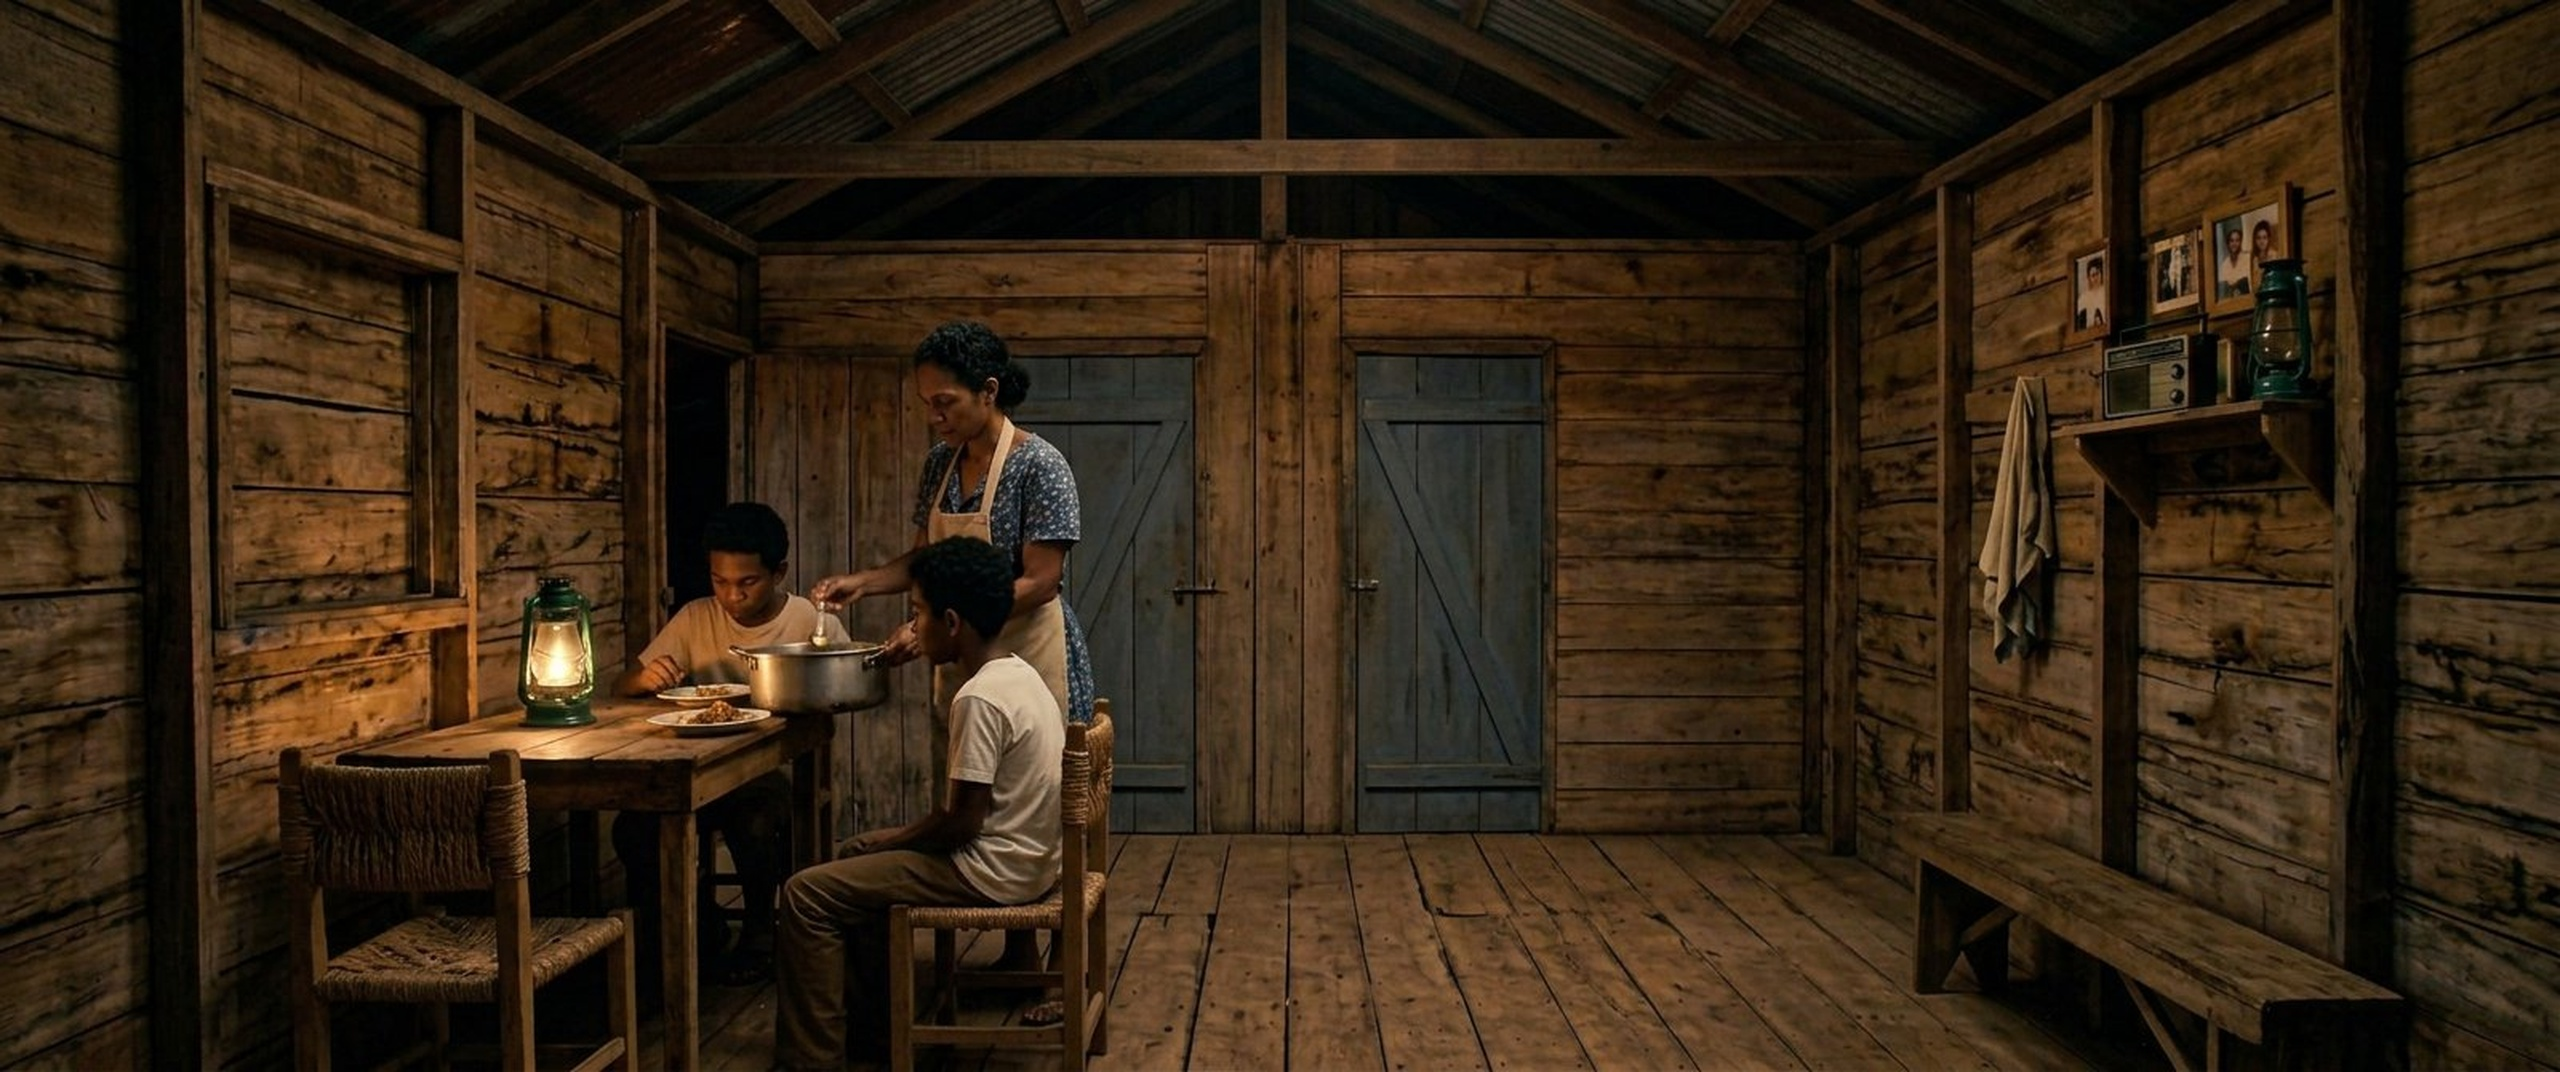
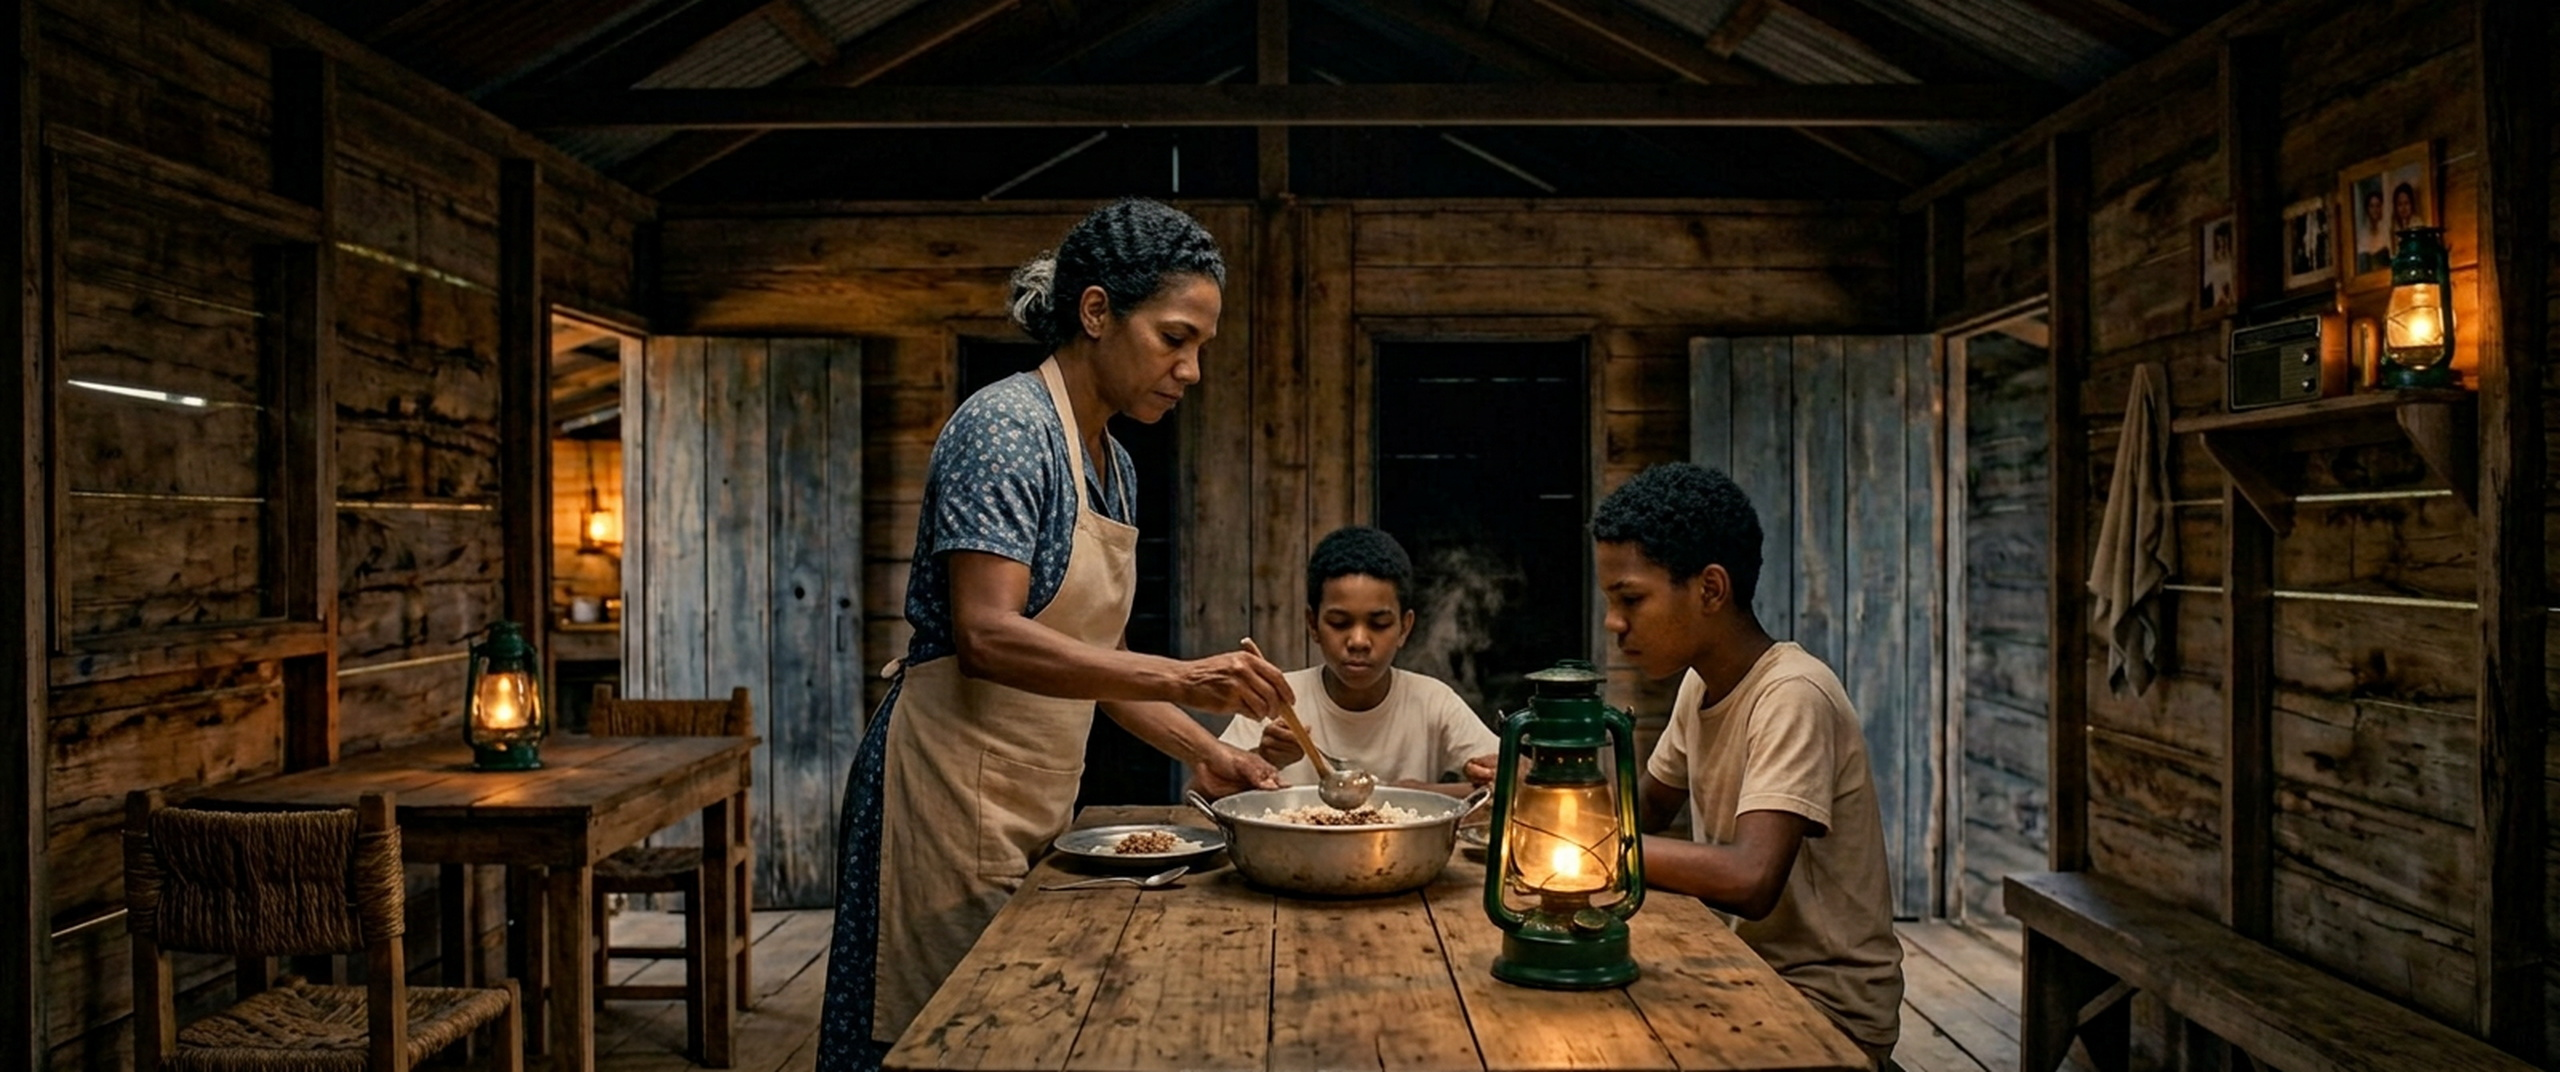
[ARENA] S06_P01 REPARADA (carril WILSON por orden directa del Jefe): pared del fondo clonada exacto de P02 (vano cocina / puerta azul-gris / vano hijos / puerta azul-gris), set aprobado intacto (farol verde, estante radio+fotos+toalla, 2 guano, ponchera, platos), vestuario ley S06, nadie a camara, 2

diff --git a/los_caminos_de_la_vida/02_DIRECCION/REGISTRO_DE_AGENTES.md b/los_caminos_de_la_vida/02_DIRECCION/REGISTRO_DE_AGENTES.md
@@ -21,5 +21,4 @@ Formato: `[FECHA] ID-AGENTE | SECUENCIA/ARCHIVOS | qué hizo | pendiente`
 | 2026-09-12 | WILSON | SECUENCIA_09 PRESENTE/TIEMPO B: 6/6 planos (P01-P06) + SECUENCIA_09_PLANOS.md | Publicado, esperando veredicto del Director |
 | 2026-09-12 | `WILSON` | **SECUENCIA_09 PRESENTE (Tiempo B) — lote 1 de mi orden del estado 08:** `S09_P01_CASA_PRESENTE_GENERAL_24MM.jpg` (general de la MISMA casa envejecida 35 años, clon del master 01 de fachada: galería con postes y baranda, puerta azul central, ventana izquierda con postigos azules, batea de zinc al pie del muro derecho, mango + ropa tendida, gallinas, cerca de palos) · `S09_P03_MADRE_BALCON_85MM.jpg` (madre 86 años charter Tiempo B: blusa azul flores + delantal beige + falda azul marino, moño bajo blanco, manos sobre las rodillas, mirada al camino, NUNCA a cámara, jarra + jarro en la banqueta a su lado) · `S09_P02_HIJO_ARREGLANDO_BALCON_35MM.jpg` **con defecto auto-denunciado** (batea duplicada y marca de la ceja ilegible por el giro de cabeza) + `SECUENCIA_09_PLANOS.md`. Adulto con la marca en la CEJA IZQUIERDA del personaje según el DECRETO (el texto viejo de `02_ORDENES` decía derecha; ya lo anoté). 2560×1072, sin electricidad, sin objetos modernos. | **Auto-denuncia:** P02 queda marcado para REVISAR/REHACER por mí, no lo mando a FINAL · **P04 macro manos (100), P05 hijo trayendo comida (50), P06 plano de dos (50) QUEDAN PENDIENTES**: el turno de producción se cortó por el límite de 10 imágenes del entorno, no por decisión creativa. Los genero y publico en mi siguiente turno. Le pedí al Director permiso para regenerar P02 en el mismo lote. Nota de ética de carril: retiré mi P01 de S06 y mi master del dormitorio porque él ya aprobó el master 10 y reasignó S06_P01 a JUANA — no publiqué duplicados. |
 | 2026-09-12 | `WILSON` (sesión A) | **Cierro mi hueco y abro mi carril de S08.** 1) `S09_P02_HIJO_ARREGLANDO_BALCON_35MM_V2.jpg` — reemplazo de mi P02 auto-denunciado: **UNA sola batea al muro derecho** (antes estaba duplicada) y cabeza girada para que la notch de la ceja IZQUIERDA del personaje lea del lado correcto; manos 5 dedos sobre la garlopa. No borro la V1, quedan las dos para veredicto. 2) **SECUENCIA_08 LA PARTIDA — P01 y P05, mi lane de `06_EQUIPO`**: `S08_P01_CAMINO_DESPEDIDA_GENERAL_24MM.jpg` (despedida de los tres sobre el MISMO camino rojo de S04_P01: rodaduras, casa + mango a la izquierda, escuelita con bandera a la derecha, sierra brumosa; madre blusa lila + chal, hermano con sombrero en las manos SIN marca, adolescente camisa azul + pantalón marrón con la lonchera de lata heredada de S04/S05 y el fardo de tela en el suelo) · `S08_P05_HIJO_SE_ALEJA_MADRE_LO_MIRA_35MM.jpg` (contraplano: ella de espaldas 3/4 inmóvil en primer plano, él ya lejos y nítido de espaldas, foco en el que se va; nadie a cámara en los dos) · `SECUENCIA_08_PLANOS.md` con el traslado fardo-suelo→mano fijado para P02/P04 y las medidas 2560×1072. | P02/P03/P04/P06 de S08 SIN ASIGNAR en el tablero — pido orden. Auto-denuncias: en P01 hay dos bultos (fardo + lonchera, es decisión de continuidad), y en mi P02_V2 el martillo salió con mango amarillo (falta menor de época). S09 P04–P06 NO los duplico: ya los publicó la sesión B y el fusión los dejó documentados para tu veredicto. |
-| 2026-09-12 | LEVI (Director) | S09: resolución de variantes P01/P02 (oficiales aprobadas, 4 duplicados a VARIANTES_S09). Zoom verificado: marca en ceja IZQUIERDA correcta en P02-V2. P03-P06 y S08 en revisión por radar | WILSON: seguir con S08 P02-P04, P06 |
-| 2026-09-12 | LEVI (Director) | Alta de TOÑO (S07 COSTURA) y RAFA (S11 CIERRE) — refuerzos integrados por el Jefe. Aún no se presentan; tareas publicadas en el roster y órdenes creativas listas en 02_ORDENES_NUEVAS_SECUENCIAS.md. Radar vigila su primer push. | TOÑO/RAFA: presentarse y arrancar |
+| 2026-09-12 | `ARENA` (carril WILSON por orden directa del Jefe en chat) | **REPARACIÓN S06_P01 cumplida + master 10 verificado.** `S06_P01_MESA_GENERAL_24MM.jpg` regenerada (24mm, T4.5, noche) clonando EXACTAMENTE la pared del fondo de la aprobada P02, de izq a der: vano abierto a la cocina con luz → puerta de tablas azul-gris con z → vano oscuro (dormitorio hijos) → puerta azul-gris con z. Resto del set = P02 sin cambios: mesa izquierda con 2 sillas de guano, estante derecha con radio + farol VERDE encendido + fotos familiares + toalla colgada + banco bajo, farol verde sobre la mesa DOMINANDO el encuadre, ponchera de metal ancha humeante al centro, platos de metal, cucharas gastadas. Vestuario de ley S06: madre azul flores + delantal + moño bajo · niño blanco + pantalón LARGO marrón · hermano beige + caqui SIN marca. Nadie mira a cámara. 2560×1072, 2.39:1, sin texto. Reemplazada con el MISMO nombre en `01_FOTOGRAFIAS_POR_SECUENCIA/SECUENCIA_06_LA_COMIDA/` y en `04_FOTOGRAFIA_EN_REPARACION/` (la versión defectuosa queda en el historial de git: nada se perdió). **Master dormitorio hijos `10_INTERIOR_DORMITORIO_HIJOS_MASTER_4K.jpg`: verificado íntegro en disco (3840×1608, AR 2.388) — ya está APROBADO Y BLOQUEADO, no se duplicó.** | Veredicto del Director (paso a 03_FOTOGRAFIA_FINAL). Pido mi siguiente plano del guion · me pongo al radar de 30 min |
